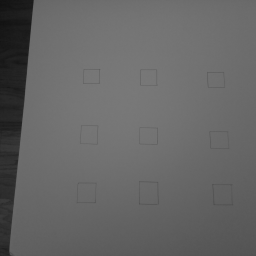
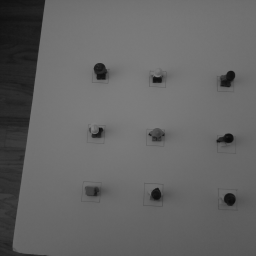
updating Classroom test script and Pixel Collection Util

diff --git a/Utils/PixelUtils.py b/Utils/PixelUtils.py
@@ -134,6 +134,34 @@ class PixelBlockSetCollection:
                    numEmpty = numEmpty +1                                     
        return numEmpty
    
+    # returns an array for each PixelBlock, with a 1 if its empty, and a zero otherwise
+    def GetImageDiffs(self, empty, current):
+       StatusEmpty = []
+       pixelBlockStatus = 1
+       for set in self.Sets:
+           for i in range(0, set.numPspots):
+               row = set.pslot_origins[i,0]
+               col = set.pslot_origins[i,1]
+               length = set.length
+               width = set.width
+
+               spot_current_img = current[row:row + length, col:col + width]
+               spot_ref_img = empty[row:row + length, col:col + width]
+                      
+               spot_diffs = np.subtract(spot_current_img, spot_ref_img)
+               spot_diffs = np.absolute(spot_diffs)
+        
+               total_pixel_diff = np.sum(spot_diffs)
+                                
+               if(total_pixel_diff < self.threshold):
+                    pixelBlockStatus = 1
+               else:
+                    pixelBlockStatus = 0
+               StatusEmpty.append(pixelBlockStatus)
+                                                        
+       return StatusEmpty
+   
+    
     def DisplayConfigurationBounds(self, imgArray):
         for set in self.Sets:
             set.MarkConfigurationBounds(imgArray)   

diff --git a/Classroom/PngTest.py b/Classroom/PngTest.py
@@ -2,23 +2,31 @@ import sys
 sys.path.insert(0, '../Utils/')
 import PixelUtils as PU
 import ImageProcessingUtils as IPU
+import numpy as np
 
 #get image of empty array from png file
-empty = IPU.pngToGrayArray("Images/big_empty.png")
+empty = IPU.pngToGrayArray("Images/empty.png")
 
 #create a collection from demoConfig
 test = PU.PixelBlockSetCollection(10, 'demoConfig.csv')
-test.SetMaxAllowedDiffForEmpty(500)
+test.SetMaxAllowedDiffForEmpty(1200)
 
 verbose = False
 
-#compare against original image
-numEmpty = test.CompareImgs(empty, empty, verbose)
-print("Num empty spots", numEmpty)
+
+    
 
 #compare against image with single available spot
-current = IPU.pngToGrayArray("Images/OneSpot.png") 
-numEmpty = test.CompareImgs(empty, current, verbose)
-print("Num empty spots", numEmpty)
+current = IPU.pngToGrayArray("Images/current.png") 
+DeskEmpty = test.GetImageDiffs(empty, current)
+print(DeskEmpty)
 
+def Populate2DGrid(rows, cols, PixelBlockEmpty):
+     grid = np.empty([rows, cols], dtype=int)
+     for i in range(0, rows):
+         for j in range(0, cols):
+             grid[i,j] = PixelBlockEmpty[i*rows + j]
+     print(grid)
+     return grid
 
+Populate2DGrid(3,3, DeskEmpty)
